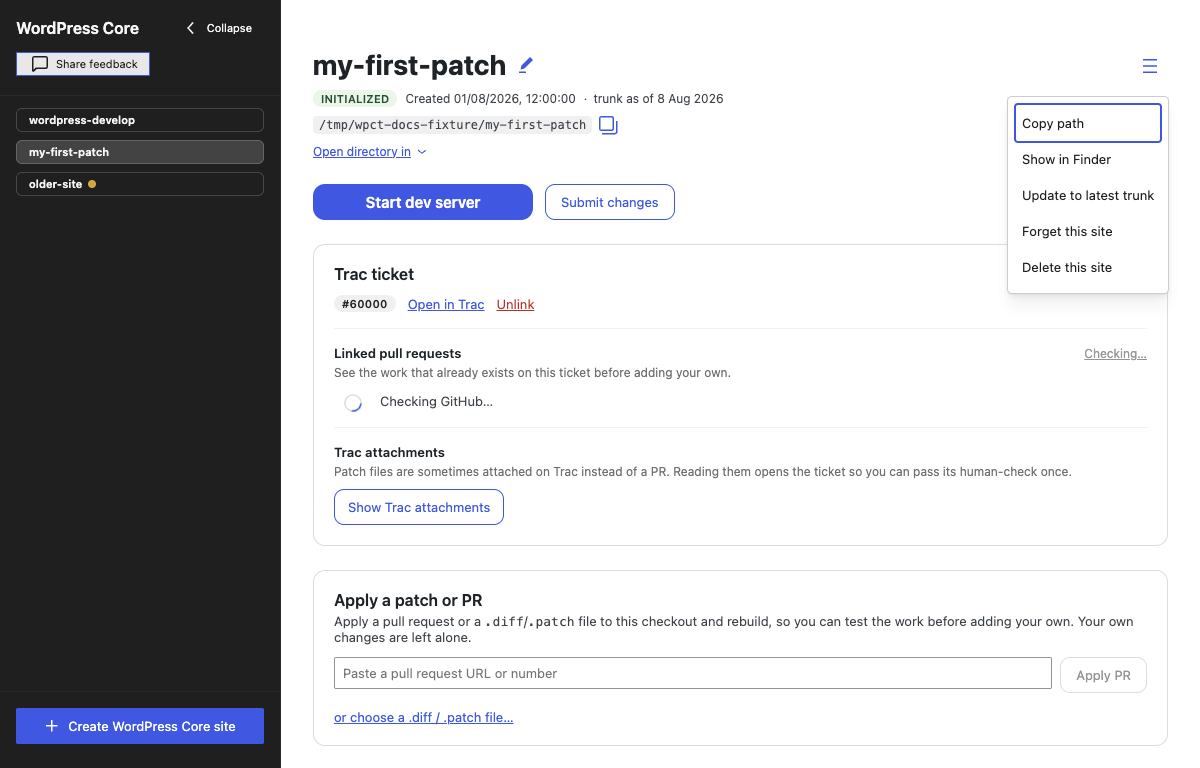
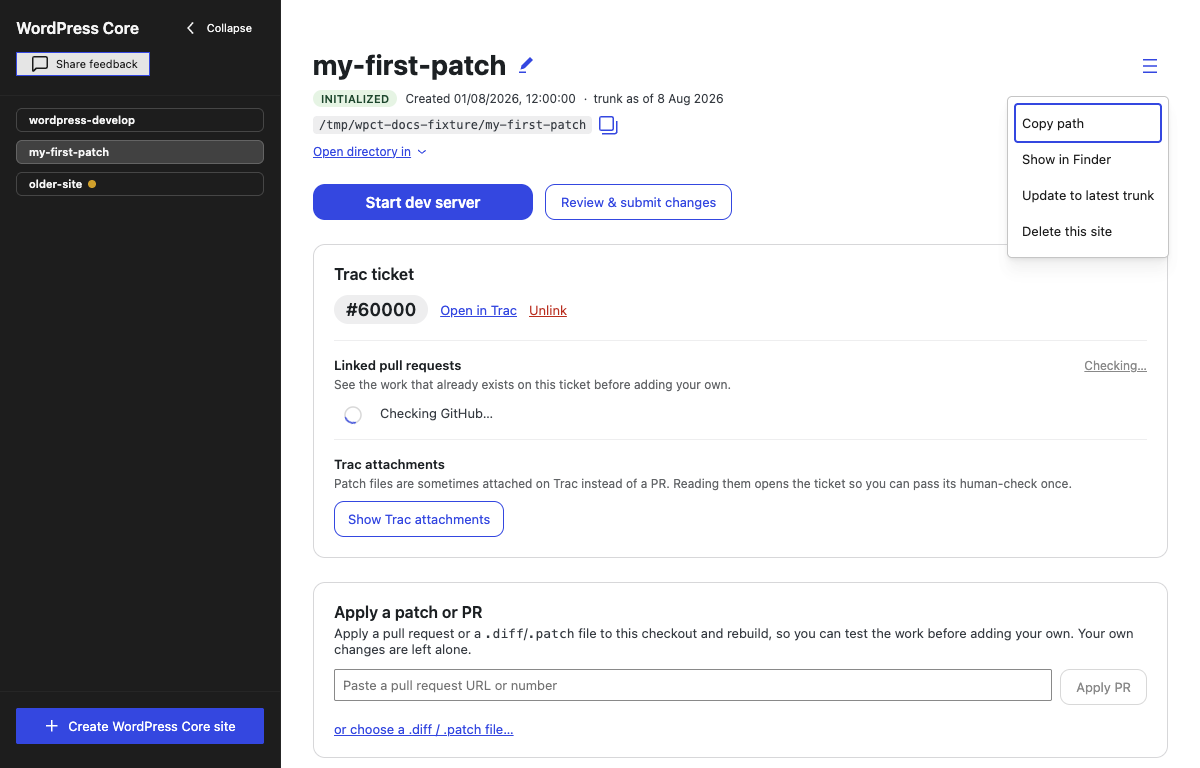
Remove "Forget this site" until a site can be added back (#266)
## Why

**Forget this site** was sold as the safe exit and was the one menu
action with no way back. The
guide said it outright: *"forget is reversible, delete is not"* — and
*"you can add the folder back
later."*

Neither was true. `sites:forget` drops the path from the registry and
leaves the checkout on disk,
but nothing in the app can readopt that folder. The handler that would
do it exists and is even on
the bridge — and has never had a caller:

```
$ grep -rn "addSite" src/ test/
src/preload.js:10:	addSite: (dir) => ipcRenderer.invoke('sites:add', dir),
```

One hit: the definition. Recreating the site does not recover it either
— `findAvailableDirName`
(`src/main.js:188`) sees the existing directory and clones a fresh copy
alongside it, so the
contributor re-downloads everything and the old GBs are orphaned.

So the control that promised reversibility was the one that stranded
your work, while Delete did
exactly what it said. It goes until **Add existing site** exists.

## What changes

The feature is removed end to end rather than just hidden, so no dead
IPC surface is left behind —
which is precisely the state `sites:add` is in today, and the reason
this PR exists.

The two legitimate uses survive without it:

- **Take a site off the list, keep the work** — move the directory
first; Delete's `remove` is
best-effort in a `try/catch` (`src/main.js:1762`) and finds nothing to
remove.
- **Clear a dead entry** left by a folder moved or deleted in Finder —
[…]

diff --git a/src/renderer/index.jsx b/src/renderer/index.jsx
@@ -590,12 +590,6 @@ function App() {
     setSiteMeta((m) => ({ ...(m || {}), [sitePath]: { ...(m?.[sitePath] || {}), ...patch } }));
   }, [setSiteMeta]);
 
-  const onForget = useCallback(async (sitePath) => {
-    await window.api.forgetSite(sitePath);
-    await refresh();
-    removeSetupLog(sitePath);
-  }, [refresh, removeSetupLog]);
-
   const onDelete = useCallback(async (sitePath) => {
     await window.api.deleteSite(sitePath);
     await refresh();
@@ -840,7 +834,6 @@ function App() {
                       label={siteMeta?.[s]?.label}
                       onInitialized={onInitialized}
                       onSiteMetaPatch={onSiteMetaPatch}
-                      onForget={onForget}
                       onDelete={onDelete}
                       onRename={onRename}
                       editor={detectedApplications}
@@ -1033,7 +1026,7 @@ function TerminalCommandLink({ command, onPrefill, disabled }) {
   );
 }
 
-function SiteRow({ sitePath, initialized, createdAt, label, onInitialized, onSiteMetaPatch, onForget, onDelete, onRename, editor, wporg, isPending = false, setupLogs = '', isActive = false, switchProgress = null, carriedWork = null, onClearSwitchNotices = null }) {
+function SiteRow({ sitePath, initialized, createdAt, label, onInitialized, onSiteMetaPatch, onDelete, onRename, editor, wporg, isPending = false, setupLogs = '', isActive = false, switchProgress = null, carriedWork = null, onClearSwitchNotices = null }) {
   // Kept in a ref so loadStatus's dependency list stays [sitePath] — a
   // recreated callback prop must not retrigger the status-loading effect.
   const metaPatchRef = useRef(onSiteMetaPatch);
@@ -3592,7 +3585,6 @@ function SiteRow({ sitePath, initialized, createdAt, label, onInitialized, onSit
               // notice is the primary entry point) — a fresh site just gets
               // "Already up to date." in the terminal.
               { title: 'Update to latest trunk', onClick: startTrunkUpdate },
-              { title:'Forget this site', onClick:()=>confirmAnd('Remove this site from the list?', ()=>onForget(sitePath)) },
               // Not while the clone is running: deleting the site would be
               // removing a directory the app is still writing into. The main
               // process refuses it either way (see site-registry.js) — that is

diff --git a/src/main.js b/src/main.js
@@ -1741,16 +1741,6 @@ ipcMain.handle('sites:mark-initialized', async (_e, sitePath) => {
 	return true;
 });
 
-ipcMain.handle('sites:forget', async (_e, sitePath) => {
-	const s = await getStore();
-	const sites = s.get('sites').filter((p) => p !== sitePath);
-	s.set('sites', sites);
-	const meta = s.get('siteMeta');
-	delete meta[sitePath];
-	s.set('siteMeta', meta);
-	return true;
-});
-
 // Only a path the app has on record gets removed from disk — see site-registry.js
 // for why. A refusal is logged rather than dropped so a future caller that trips
 // the guard shows up in the log file instead of just doing nothing.

diff --git a/src/preload.js b/src/preload.js
@@ -65,8 +65,6 @@ contextBridge.exposeInMainWorld('api', {
 ,
 	markSiteInitialized: (sitePath) => ipcRenderer.invoke('sites:mark-initialized', sitePath)
 ,
-	forgetSite: (sitePath) => ipcRenderer.invoke('sites:forget', sitePath)
-,
 	deleteSite: (sitePath) => ipcRenderer.invoke('sites:delete', sitePath)
 
 ,

diff --git a/docs/guide/managing-sites.md b/docs/guide/managing-sites.md
@@ -28,16 +28,13 @@ The ☰ menu at the top right of the site view contains:
 - **Update to latest trunk** — fetches the latest `wordpress-develop` trunk and rebuilds. Also
   reachable from the staleness notice; on an already-fresh site it just prints "Already up to
   date." See [Staying up to date with trunk](./trunk-updates).
-- **Forget this site** — removes the site from the app's list. The directory and everything in
-  it stay on disk; you can add the folder back later.
 - **Delete this site** — removes the site from the list **and deletes its directory from disk**.
   This cannot be undone. The app will only ever delete a directory it has on record as a site —
   never an arbitrary path. It takes every ticket's work in the site with it; to throw away one
   ticket and keep the rest, use **Delete this ticket's work** on the tickets card instead — see
   [Working on several tickets](./ticket-branches#deleting-a-ticket-s-work).
 
-Both **Forget** and **Delete** ask for confirmation first. If you are unsure which you want:
-forget is reversible, delete is not.
+**Delete** asks for confirmation first.
 
 ## Updating with uncommitted changes
 

diff --git a/docs/guide/creating-a-site.md b/docs/guide/creating-a-site.md
@@ -33,7 +33,7 @@ to look when a site never finishes.
 
 ## Where sites live on disk
 
-Each site is an ordinary folder on your disk: the parent folder you chose in **Site location**, plus a directory named after the site. Inside is a normal `wordpress-develop` checkout — you can open it in any editor or file manager. The app only records the path and some metadata; deleting a site from the app can also delete this folder (see [Managing sites](./managing-sites)).
+Each site is an ordinary folder on your disk: the parent folder you chose in **Site location**, plus a directory named after the site. Inside is a normal `wordpress-develop` checkout — you can open it in any editor or file manager. The app only records the path and some metadata; deleting a site from the app also attempts to delete this folder (see [Managing sites](./managing-sites)).
 
 ## The site list
 
